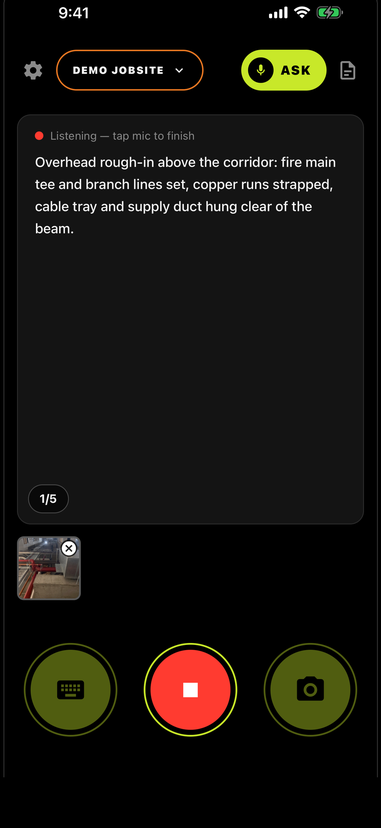
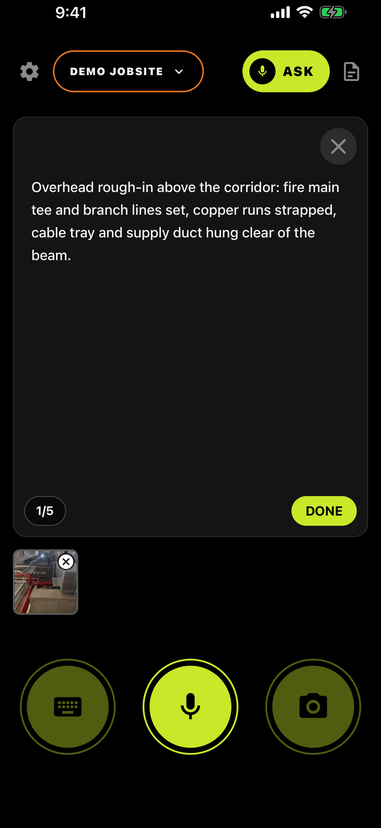
Speak-it screenshot -> finalized talk-it-log-it screen
Aligns the site with Lou's final curated app-screenshot set (the 'stop typing'
recording shot was dropped; the fixed 'talk it. log it.' note screen is the
kept version). Clean crop, no caption/frame.

diff --git a/index.html b/index.html
@@ -739,7 +739,7 @@
       <div class="f-visual reveal">
         <div class="phone">
           <div class="phone-screen">
-            <img class="shot" src="screenshots/cap-record.png" alt="SiteLog AI recording a field note by voice — the mic is live and the words 'Overhead rough-in above the corridor: fire main tee and branch lines set, copper runs strapped, cable tray and supply duct hung clear of the beam' are transcribing on screen, with the red fire-main and ductwork photo attached" loading="lazy">
+            <img class="shot" src="screenshots/cap-record.png" alt="A voice-transcribed field note in SiteLog AI — 'Overhead rough-in above the corridor: fire main tee and branch lines set, copper runs strapped, cable tray and supply duct hung clear of the beam' — written clean and ready to file, with the red fire-main and ductwork photo attached and the mic button ready" loading="lazy">
           </div>
         </div>
       </div>
